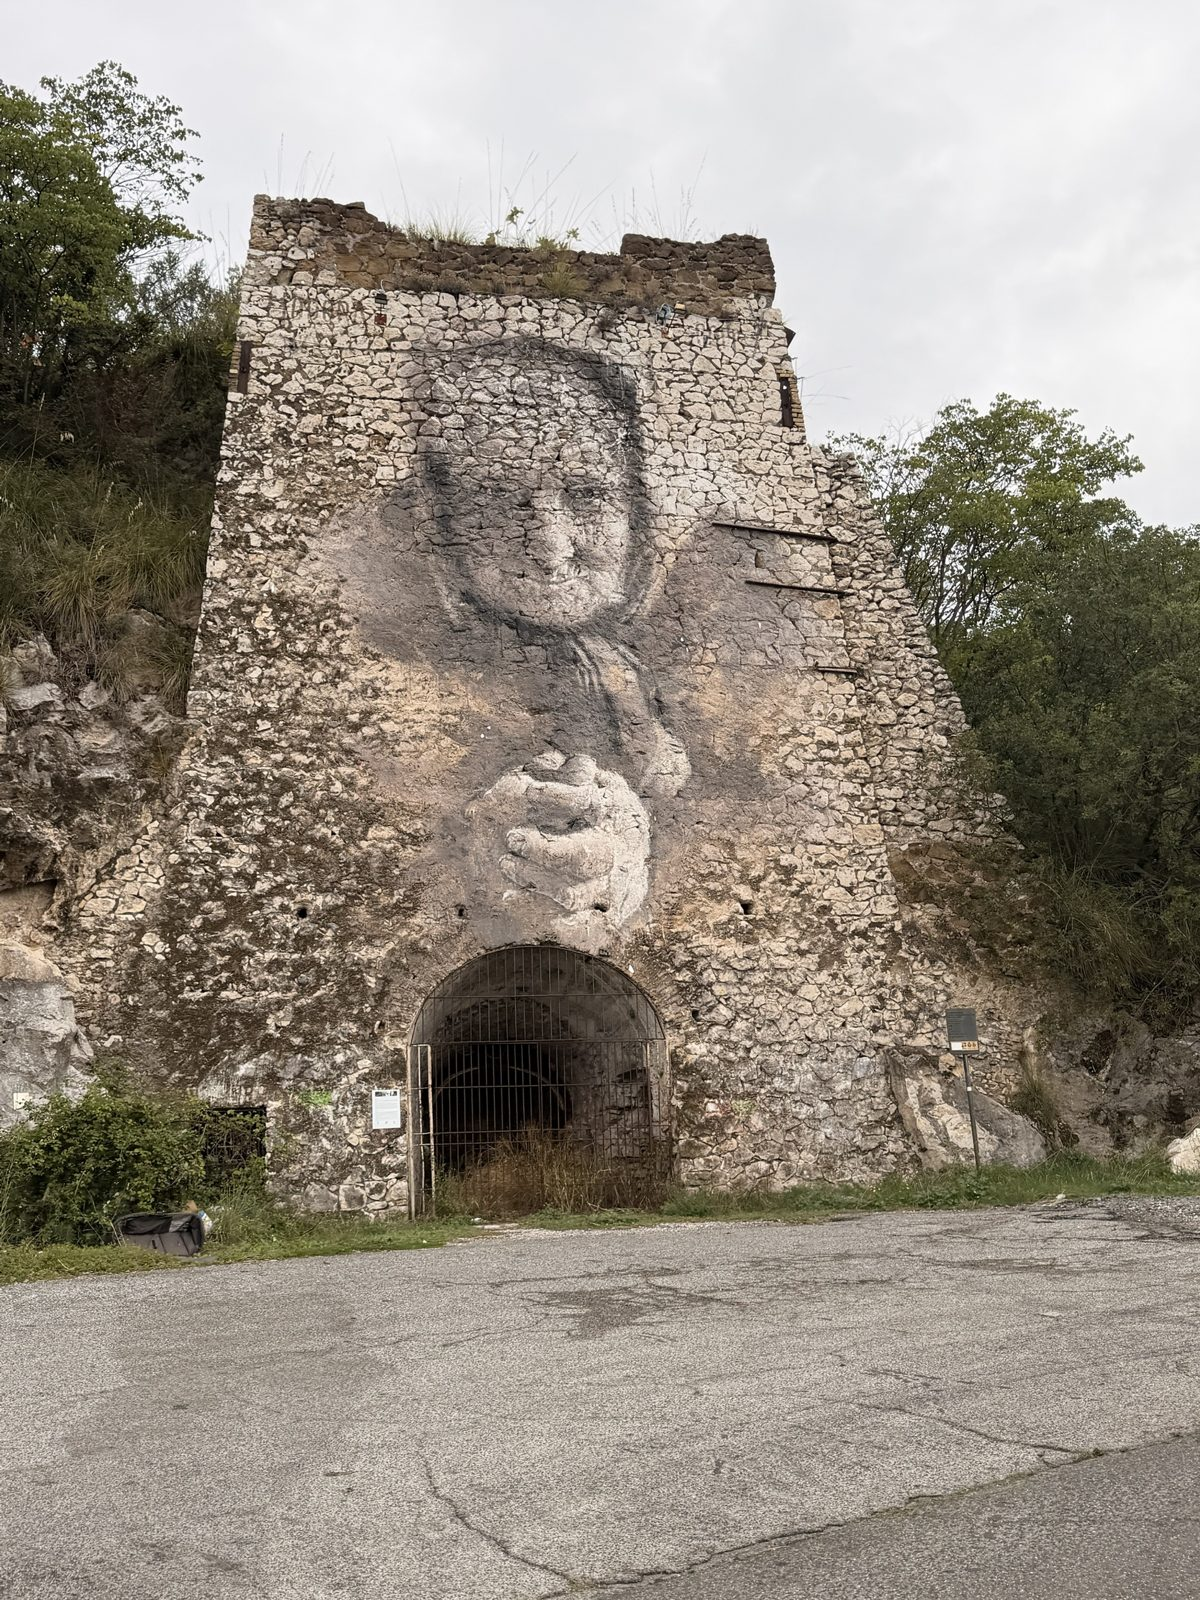
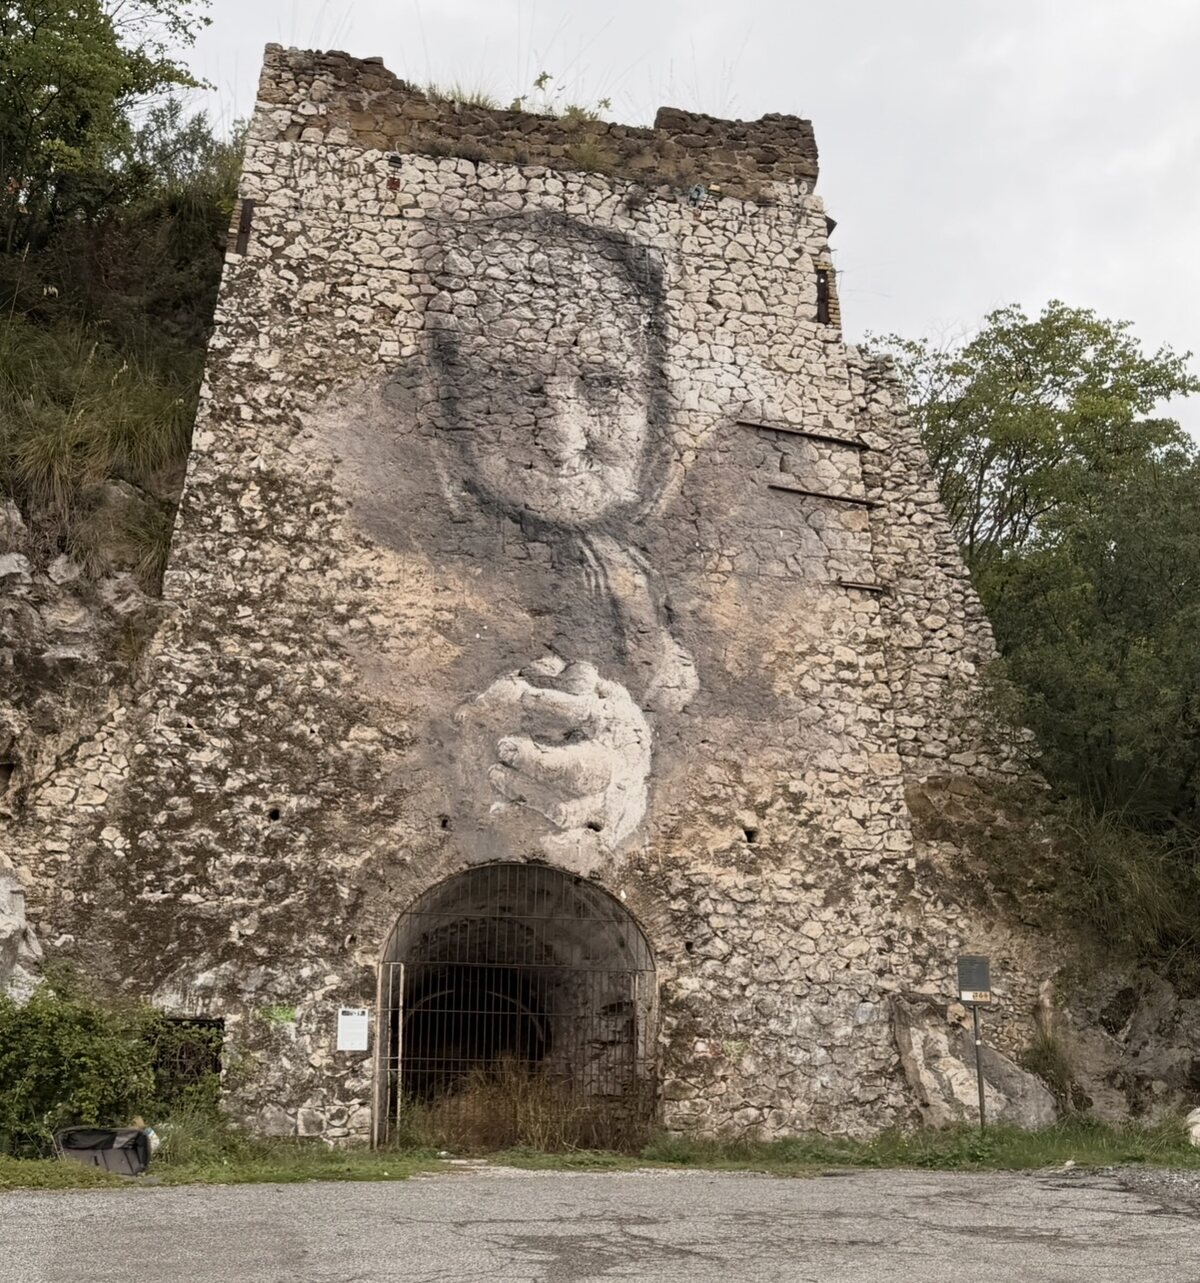
Anteprima Chi sono: nuova foto per Le mie radici; su computer radici e nomi dei nonni in una sola schermata
Claude-Session: https://claude.ai/code/session_01FDBtRT6D6wSxFjEGHStC1T

diff --git a/static/css/style.css b/static/css/style.css
@@ -548,7 +548,7 @@ section.block.roots-sec{padding-block:56px 72px;border-top:1px solid var(--line)
 @media (max-width:760px){
   section.block.roots-sec{padding-block:40px 56px}
   .roots{grid-template-columns:1fr;gap:22px}
-  .roots-photo img{aspect-ratio:3/4;max-height:none}
+  .roots-photo img{aspect-ratio:1320/1411;max-height:none}
 }
 .roots.roots-solo{grid-template-columns:1fr;max-width:46rem}
 
@@ -629,4 +629,22 @@ section.block.teaser-sec{padding-top:0}
   body:has(.teaser-sec) footer .legal{max-width:none}
   body:has(.teaser-sec) footer .wrap{gap:10px}
   .teaser-sec .teaser img{width:260px}
+}
+
+/* Chi sono su computer: "Le mie radici" tutta in una schermata, sopra foto e racconto, sotto i nomi dei nonni */
+@media (min-width:961px){
+  section.block.roots-sec{min-height:calc(100svh - var(--navh,65px));display:flex;flex-direction:column;justify-content:center;padding-block:22px}
+  .roots{grid-template-columns:minmax(0,300px) minmax(0,1fr);column-gap:48px;row-gap:14px;align-items:center}
+  .roots-head{margin-bottom:0}
+  .roots-photo img{aspect-ratio:1320/1411;object-position:center}
+  .roots-txt{gap:10px}
+  .roots-lead{font-size:1.12rem;line-height:1.5;max-width:46rem}
+  .roots .roots-lead + .roots-lead{margin-top:0}
+  .names{margin-top:6px;padding-top:16px;gap:12px}
+  .names-head{gap:2px}
+  .names-head h2{font-size:1.7rem}
+  .names-list > div{padding:12px 16px;gap:4px}
+  .names-list dt{font-size:1.25rem}
+  .names-list dd{font-size:.88rem;line-height:1.45}
+  .names-close{font-size:1.02rem;line-height:1.45}
 }

diff --git a/templates/chi_sono.html b/templates/chi_sono.html
@@ -27,7 +27,7 @@
     <p class="label roots-head">Le mie radici</p>
     {% if static_exists('img/san-polo.jpg') %}
     <figure class="roots-photo">
-      <img src="{{ url_for('static', filename='img/san-polo.jpg') }}" alt="Antico muro di pietra con un volto dipinto" loading="lazy">
+      <img src="{{ url_for('static', filename='img/san-polo.jpg') }}" alt="Antica torre di pietra con il volto di una donna anziana dipinto sul muro" loading="lazy">
     </figure>
     {% endif %}
     <div class="roots-txt">
